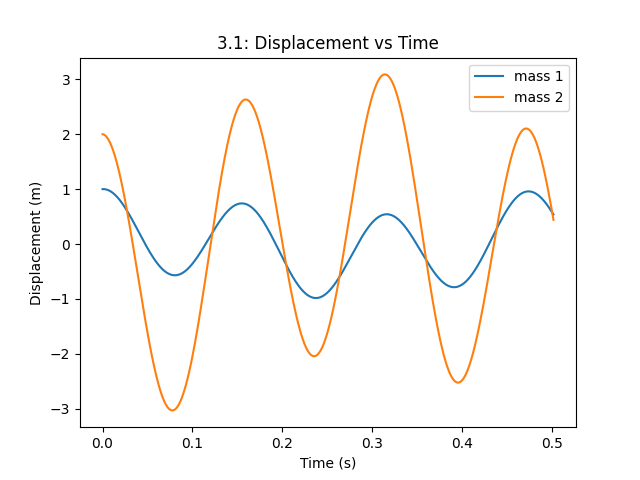
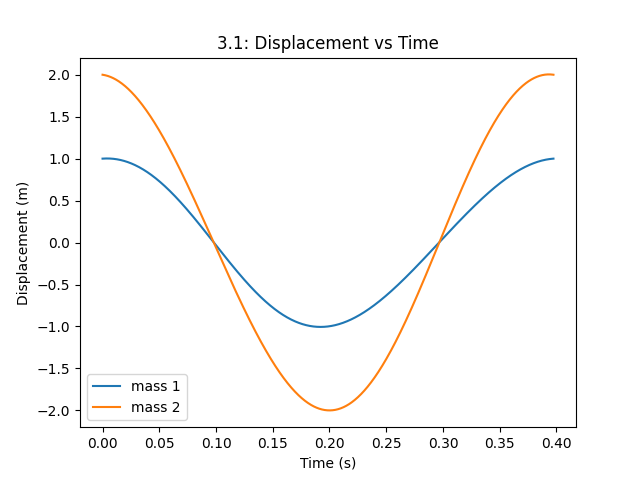
question3 edit

diff --git a/question3.py b/question3.py
@@ -9,7 +9,7 @@ def get_modal_freq(m,k):
     #returns the modal frequencies for the system of equations : m[0]*x''[0]+(k[0]+k[1])*x[0]-k[1]*x[1]=0, m[1]*x''[1]+(k[1])*x[1]-k[1]*x[0]=0
     f_modal=np.zeros(2)
     a=m[1]*m[0]
-    b=-(m[0]*(k[0]+k[1])+m[1]*k[1])
+    b=-(m[1]*(k[0]+k[1])+m[0]*k[1])
     c=(k[0]+k[1])*k[1]-k[1]**2
     f_modal[0]=np.sqrt((-b+np.sqrt(b**2-4*a*c))/(2*a))
     f_modal[1]=np.sqrt((-b-np.sqrt(b**2-4*a*c))/(2*a))
@@ -18,10 +18,10 @@ def get_modal_freq(m,k):
 def get_modal_shapes(x0,v0,m,k,t,f_modal):
     #x0 = initial position, v0 = initial velocity, t = time, m = mass, k = spring constant, f_modal = modal frequencies
     #returns the modal shapes
-    
     r=np.zeros(2)
     for i in range(2):
-        r[i]=((k[1]+k[0])-m[0]*f_modal[i]**2)/-k[1]
+        r[i]=((k[1]+k[0])-m[0]*f_modal[i]**2)/k[1]
+    print(r)
     A=np.array([[1,1],[r[0],r[1]]])
     B=np.array([x0[0],x0[1]])
     Xcos=np.linalg.inv(A).dot(B)
@@ -33,14 +33,10 @@ def get_modal_shapes(x0,v0,m,k,t,f_modal):
     x=np.zeros(2,dtype=object)
     x[0]=X[0]*np.cos(f_modal[0]*t+phi[0])+X[1]*np.cos(f_modal[1]*t+phi[1])
     x[1]=r[0]*X[0]*np.cos(f_modal[0]*t+phi[0])+r[1]*X[1]*np.cos(f_modal[1]*t+phi[1])
-    v=np.zeros(2,dtype=object)
-    v[0]=-f_modal[0]*X[0]*np.sin(f_modal[0]*t+phi[0])-f_modal[1]*X[1]*np.sin(f_modal[1]*t+phi[1])
-    v[1]=-f_modal[0]*r[0]*X[0]*np.sin(f_modal[0]*t+phi[0])-f_modal[1]*r[1]*X[1]*np.sin(f_modal[1]*t+phi[1])
-    return x,v
-
+    return x
 def plot_modal_shapes(x0,v0,m,k,t,f_modal,fignum):
     #plots the modal shapes
-    [x,v]=get_modal_shapes(x0,v0,m,k,t,f_modal)
+    x=get_modal_shapes(x0,v0,m,k,t,f_modal)
     plt.figure(fignum+' Displacement vs Time')
     plt.plot(t,x[0],label='mass 1')
     plt.plot(t,x[1],label='mass 2')
@@ -50,16 +46,7 @@ def plot_modal_shapes(x0,v0,m,k,t,f_modal,fignum):
     plt.title(fignum+': Displacement vs Time')
     plt.savefig(fignum+' Displacement vs Time.png')
     plt.show()
-    plt.figure(fignum+'Velocity vs Time')
-    plt.plot(t,v[0],label='mass 1')
-    plt.plot(t,v[1],label='mass 2')
-    plt.legend()
-    plt.xlabel('Time (s)')
-    plt.ylabel('Velocity (m/s)')
-    plt.title(fignum+': Velocity vs Time')
-    plt.savefig(fignum+'Velocity vs Time.png')
-    plt.show()
-
+    
 f_modal=get_modal_freq(m,k)#the modal frequencies
 t_modalmax=(2*np.pi/f_modal).max()#the modal period
 t=np.linspace(0,t_modalmax,1000)#time domain

diff --git a/question2.py b/question2.py
@@ -32,6 +32,7 @@ def total_soln(F0, k, m, c,force_freq,t,x0,v0):
     if roots[0].imag != 0 and roots[1].imag != 0:#complex roots underdamped case
         '''we use the solution of the homogeneous equation x(t)=e^(lambda1t)(X_0cos(omega_d*t+phi_0))'''
         X_0=np.sqrt((x0-X_steady*np.cos(phi_steady))**2+((v0-X_steady*np.sin(phi_steady)*force_freq-roots[0].real*(x0-X_steady*np.cos(phi_steady)))/roots[0].imag)**2)
+
         if (roots[0].imag*(x0-X_steady*np.cos(phi_steady)))==0:#if the denominator is zero, we use the limit of the ratio as the phase angle
             phi_0=np.pi/2
             return X_0*np.exp(roots[0].real*t)*np.sin(roots[0].imag*t)+X_steady*np.cos(force_freq*t-phi_steady)
@@ -71,6 +72,7 @@ force_freq=[10,20]#frequency of the force
 t=np.linspace(0,2,1000)#time
 nfig=['2.1','2.2']
 for i in range(2):
+    print (steady_state_prop(F0, k, m, c,force_freq[i]))
     plot_soln(F0, k, m, c,force_freq[i],t,x0,v0,nfig[i])
 
 
